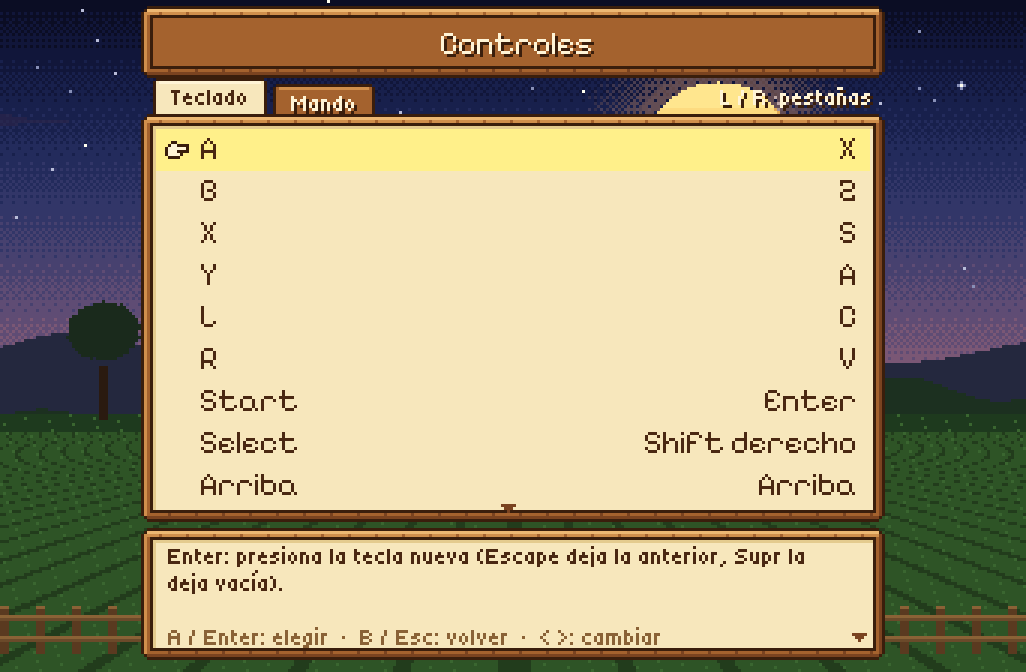
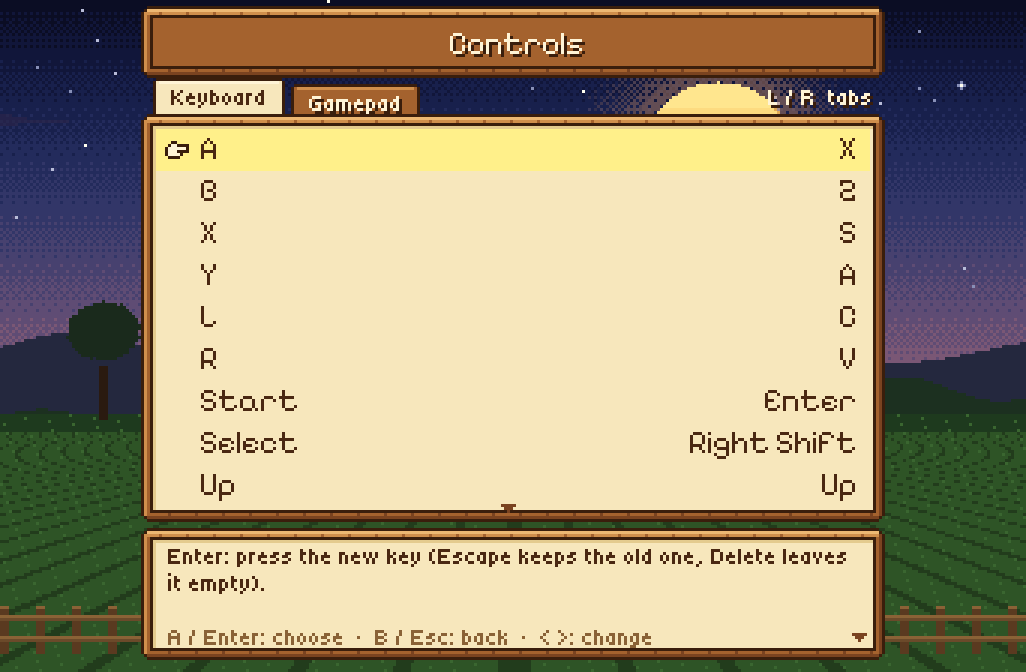
README: capturas en inglés

diff --git a/README.md b/README.md
@@ -60,8 +60,7 @@ downloaded from the internet. On Linux: see [How the native build works](#how-th
 
 A farm at night under the harvest moon, wooden frames, parchment and the
 pointing hand, all drawn at the SNES's resolution, so its pixels are the
-game's size. Keyboard, gamepad or mouse, in **Spanish, English or
-Italian**. In the game it opens with **Esc** (or L3 / Guide on a gamepad,
+game's size. Keyboard, gamepad or mouse, in **English (the default), Spanish or Italian**. In the game it opens with **Esc** (or L3 / Guide on a gamepad,
 or OPTIONS on the title screen), with the game paused and the music
 playing on.
 

diff --git a/README.es.md b/README.es.md
@@ -61,7 +61,7 @@ internet. En Linux: ver [Cómo funciona la versión nativa](#cómo-funciona-la-v
 Una granja de noche bajo la luna de la cosecha, marcos de madera, pergamino
 y la mano que señala, todo dibujado a la resolución del SNES, así que sus
 píxeles son del tamaño de los del juego. Se maneja con teclado, mando o
-ratón, en **español, inglés o italiano**. En el juego se abre con **Esc**
+ratón, en **inglés (por defecto), español o italiano**. En el juego se abre con **Esc**
 (o L3 / Guía en el mando, o OPTIONS en el título) y el juego queda en pausa
 mientras la música sigue.
 
